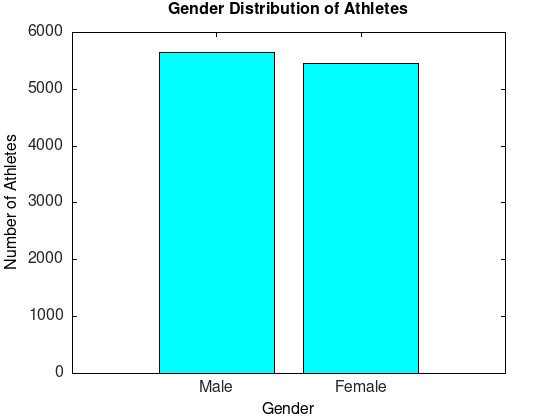
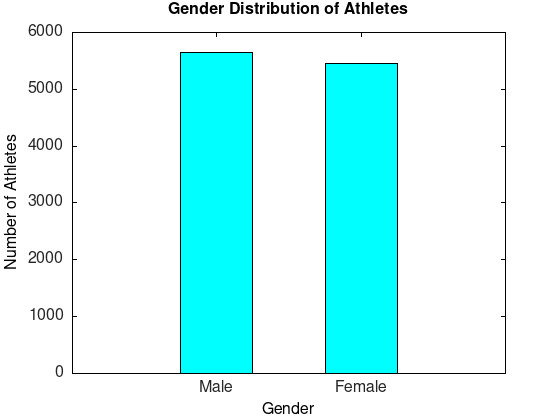
final push

Changed region(s): [[0.425, 0.1238, 0.6071, 0.8976], [0.2732, 0.1238, 0.3339, 0.8976], [0.6982, 0.1548, 0.7589, 0.8976]]

diff --git a/tui/src/MenuHandler.cpp b/tui/src/MenuHandler.cpp
@@ -41,6 +41,7 @@ void MenuHandler::start() {
     }
   }
 }
+
 void MenuHandler::loginMember(MemberList &memberList) {
   string username, password;
 
@@ -95,7 +96,8 @@ void MenuHandler::adminMenu(MemberList &memberList) {
     cout << "4. Delete Data" << endl;
     cout << "5. Show Data" << endl;
     cout << "6. Search Data" << endl;
-    cout << "7. Logout" << endl;
+    cout << "7. Show Analysis" << endl;
+    cout << "8. Logout" << endl;
     cout << "Enter your choice: ";
 
     int choice;
@@ -104,9 +106,9 @@ void MenuHandler::adminMenu(MemberList &memberList) {
     switch (choice) {
     case 1:
       memberList.displayMembers();
-        cout << "Press Enter to continue..."<<endl;
-        cin.ignore();
-        cin.get(); 
+      cout << "Press Enter to continue..." << endl;
+      cin.ignore();
+      cin.get();
       break;
     case 2: {
       string username;
@@ -116,7 +118,7 @@ void MenuHandler::adminMenu(MemberList &memberList) {
       break;
     }
     case 3:
-      cout << "Adding Data to CSV..." << endl;
+      addData();
       break;
     case 4:
       DeleteData();
@@ -129,6 +131,10 @@ void MenuHandler::adminMenu(MemberList &memberList) {
       searchDataSubmenu();
       break;
     case 7:
+      showGraphs();
+      break;
+
+    case 8:
       cout << "Logging out...\n";
       system("pause");
       return;
@@ -327,6 +333,63 @@ void MenuHandler::ShowData() {
     }
   }
 }
+void MenuHandler::addData() {
+  while (true) {
+    clearScreen();
+    cout << "\n===== Choose a CSV file =====\n";
+    cout << "1. athletes.csv" << endl;
+    cout << "2. coaches.csv" << endl;
+    cout << "3. events.csv" << endl;
+    cout << "4. medallists.csv" << endl;
+    cout << "5. medals.csv" << endl;
+    cout << "6. medals_total.csv" << endl;
+    cout << "7. nocs.csv" << endl;
+    cout << "8. teams.csv" << endl;
+    cout << "9. Exit" << endl;
+    cout << "Enter your choice: ";
+
+    int ch;
+    int index;
+    cin >> ch;
+
+    // Check the user's choice
+    switch (ch) {
+    case 1:
+      db->insert("athletes.csv");
+      break;
+    case 2:
+      db->insert("coaches.csv");
+
+      break;
+    case 3:
+      db->insert("events.csv");
+      break;
+    case 4:
+      db->insert("medallists.csv");
+      break;
+    case 5:
+      db->insert("medals.csv");
+
+      break;
+    case 6:
+      db->insert("medals_total.csv");
+
+      break;
+    case 7:
+      db->insert("nocs.csv");
+
+      break;
+    case 8:
+      db->insert("teams.csv");
+      break;
+    case 9:
+      cout << "Going Back" << endl;
+      return;
+    default:
+      cout << "Invalid choice. Please try again." << endl;
+    }
+  }
+}
 void MenuHandler::viewTable(string s) {
   int argc = 0;
   char *argv[] = {nullptr};
@@ -343,7 +406,7 @@ void MenuHandler::userMenu() {
   while (true) {
     clearScreen();
     cout << "\n===== User Menu =====\n";
-    cout << "1. Show Data\n2. Search Data\n3. Logout\nEnter your choice: ";
+    cout << "1. Show Data\n2. Search Data\n3.Show Analysis \n4. Logout\nEnter your choice: ";
 
     int choice;
     cin >> choice;
@@ -357,6 +420,9 @@ void MenuHandler::userMenu() {
       searchDataSubmenu();
       break;
     case 3:
+      showGraphs();
+      break;
+    case 4:
       cout << "Logging out...\n";
       system("pause");
       return;
@@ -375,6 +441,16 @@ void MenuHandler::searchTable(string s) {
   QString csvFileName = QString::fromStdString(s);
 
   searchInCSV(csvFileName, directory);
+}
+void MenuHandler::showGraphs() {
+
+  int argc = 0;
+  char *argv[] = {nullptr};
+  QApplication app(argc, argv);
+
+  ParisOlympicsAnalysis viewer;
+  viewer.show();
+  app.exec();
 }
 
 void MenuHandler::searchDataSubmenu() {

diff --git a/backend/src/Graphs.cpp b/backend/src/Graphs.cpp
@@ -5,7 +5,9 @@
 #include "matplot/freestanding/plot.h"
 #include <algorithm>
 #include <iostream>
+#include <matplot/axes_objects/bars.h>
 #include <stdexcept>
+#include <string>
 
 using namespace std;
 using namespace matplot;
@@ -104,6 +106,7 @@ void Graph ::genderDistribution(Database *d) {
   vector<int> counts = {male_counter, female_counter};
 
   auto b = bar(counts);
+  b->bar_width(0.5);
 
   title("Gender Distribution of Athletes");
   xlabel("Gender");
@@ -137,20 +140,23 @@ void Graph::totalNOofMedalsbyCountry(Database *d) {
       cerr << "Invalid input: '" << medal << "' cannot be converted to double"
            << endl;
     } catch (const out_of_range &e) {
-      cerr << "Out of range error: '" << medal << "' is too large to be a double"
-           << endl;
+      cerr << "Out of range error: '" << medal
+           << "' is too large to be a double" << endl;
     }
   }
 
-   auto b = bar(int_medals);
-  // b->face_color(map_values(total_medals));
-   gca()->x_axis().ticklabels(*countries);
+  auto b = bar(int_medals, 0.6);
+  vector<string> count;
 
-   title("Number of Medals by Country");
-   xlabel("Country Code");
-   ylabel("Number of Medals");
-  string save_path = "/home/sujat/projects/CSE225-summer24-project/charts/"
-                     "medals_by_country.jpg";
-  save(save_path);
+  // Set x-axis tick labels using country codes
+  xlabel("Country Code");
+  title("Number of Medals by Country");
+  ylabel("Number of Medals");
+  cout << countries->size() <<endl;
+  cout << int_medals.size() <<endl;
+  gca()->x_axis().ticklabels(*countries);
 
+  string save_path = "/home/sujat/projects/CSE225-summer24-project/charts/countries_by_total_medals.jpg";
+  //save(save_path);
+  //show();
 }

diff --git a/backend/src/Database.cpp b/backend/src/Database.cpp
@@ -8,6 +8,8 @@
 #include <fstream>
 #include <iostream>
 #include <stdexcept>
+#include <string>
+#include <vector>
 
 using namespace std;
 using namespace std::filesystem;
@@ -98,13 +100,40 @@ void Database::saveDatabase(const string &directoryPath) {
 // Helper function to escape fields for CSV format
 
 // Insert a new row into a specific table
-void Database::insert(const string &tableName, const vector<string> &rowData) {
-  if (tables.find(tableName) == tables.end()) {
-    throw invalid_argument("Table " + tableName + " does not exist.");
+/*void Database::insert(const string &tableName, const vector<string> &rowData)
+{ if (tables.find(tableName) == tables.end()) { throw invalid_argument("Table "
++ tableName + " does not exist.");
   }
 
   tables[tableName]->insert(rowData);
   cout << "Row inserted into " << tableName << " successfully." << endl;
+}*/
+void Database::insert(const string &tableName) {
+  /*if (tables.find(tableName) == tables.end()) {
+    throw invalid_argument("Table " + tableName + " does not exist.");
+  }
+
+  ifstream file(tableName);
+  if (!file.is_open()) {
+    std::cerr << "Error: Could not open file " << tableName << std::endl;
+  }*/
+
+
+  vector<string> columns;
+  string temp;
+
+  columns = this->getTable(tableName)->columns;
+
+  vector<string> rowData;
+  for (size_t i = 0; i < columns.size(); ++i) {
+    cout << "Enter data for column '" << columns[i] << "': ";
+    cin >> temp;
+    rowData.push_back(temp);
+  }
+
+  tables[tableName]->insert(rowData);
+  cout << "Row inserted into " << tableName << " successfully." << endl;
+  this->saveDatabase("/home/sujat/projects/CSE225-summer24-project/data1/");
 }
 
 // Remove a row from a specific table at a given index

diff --git a/main.cpp b/main.cpp
@@ -1,25 +1,24 @@
 
 
 #include "Database.h"
+#include "Graphs.h"
 #include "MenuHandler.h"
 #include "QApplication"
 #include "QWidget"
 #include <qwidget.h>
 #include <string>
-#include "Graphs.h"
 #include <vector>
 
 using namespace std;
-
 int main(int argc, char *argv[]) {
   std::string dataFolder = "/home/sujat/projects/CSE225-summer24-project/data1";
   QString csvFileName = "athletes.csv"; // Update with the name of your CSV file
-
+  //
+  //
   Database *db = new Database();
-
   db->loadDatabase(dataFolder);
-  Graph g; 
-  g.genderDistribution(db);
-  g.totalNOofMedalsbyCountry(db);
+  MenuHandler menu(db, dataFolder);
+  menu.start();
+
 
 }

diff --git a/backend/include/Database.h b/backend/include/Database.h
@@ -26,7 +26,8 @@ public:
 
   void loadDatabase(const string &directoryPath);
   void saveDatabase(const string &directoryPath);
-  void insert(const string &tableName, const vector<string> &rowData);
+//  void insert(const string &tableName, const vector<string> &rowData);
+  void insert(const string &tableName );
   void remove(const string &tableName, int index);
   // Node *search(int rowno);
   Node *search(const string &tableName, const string &key, int &columnIndex);

diff --git a/gui/src/ParisOlympicsAnalysis.cpp b/gui/src/ParisOlympicsAnalysis.cpp
@@ -22,7 +22,7 @@ ParisOlympicsAnalysis::ParisOlympicsAnalysis(QWidget *parent)
   resize(800, 600);
 
   // Set the specific folder path directly in the code
-  imageFolder = "/home/sujat/core/images/"; // Set your desired folder path here
+  imageFolder = "/home/sujat/projects/CSE225-summer24-project/charts/"; // Set your desired folder path here
   loadImagesFromFolder();
 }
 

diff --git a/tui/include/MenuHandler.h b/tui/include/MenuHandler.h
@@ -10,6 +10,7 @@
 #include <iostream>
 #include <qapplication.h>
 #include <string>
+#include "ParisOlympicsAnalysis.h"
 
 class MenuHandler {
 public:
@@ -33,4 +34,6 @@ private:
   void ShowData();
   void viewTable(string s);
   void searchTable(string s);
+  void showGraphs();
+  void addData();
 };

diff --git a/backend/src/LinkedList.cpp b/backend/src/LinkedList.cpp
@@ -96,7 +96,7 @@ void LinkedList::display() const {
   }
 }
 void LinkedList::returnColumn(int index, vector<string> *s) {
-  Node *current = head;
+  Node *current = head->next;
   while (current != NULL) {
     cout << current->data[index] << endl;
     s->push_back(current->data[index]);
